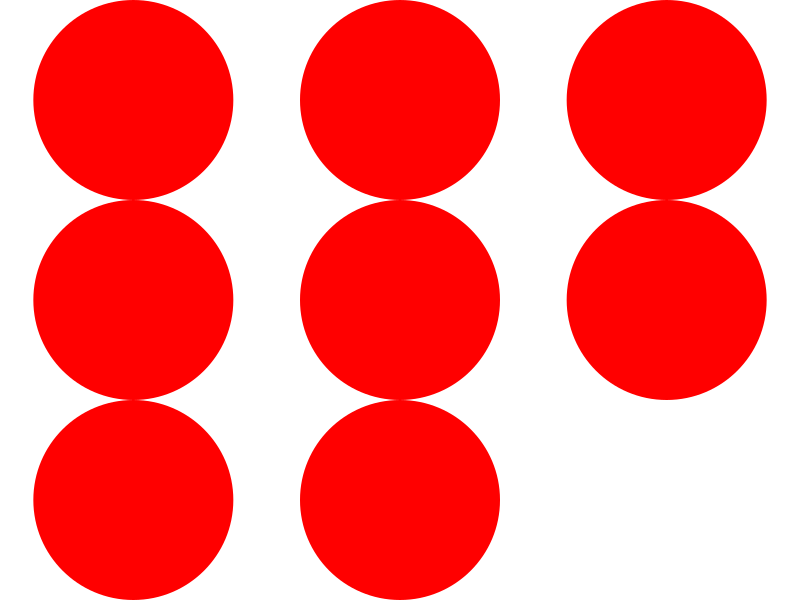
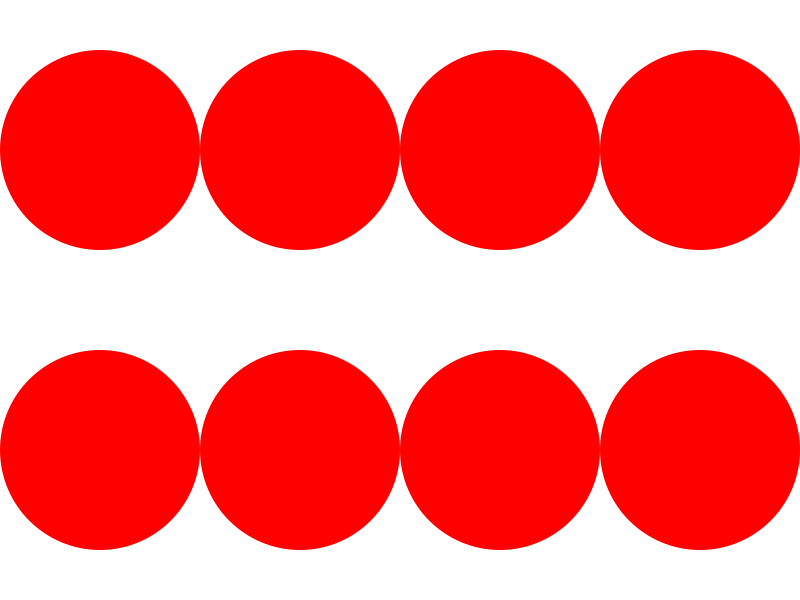
Better grid algorithm.

diff --git a/src/Grid.ts b/src/Grid.ts
@@ -6,24 +6,73 @@ export function Grid(...objects: DisplayObject[]): GridComponent {
 }
 
 export class GridComponent extends Partitioner {
+  _centerLastRow: boolean = false;
+
   constructor(...children: DisplayObject[]) {
     super(...children);
+  }
+
+  centerLastRow(): GridComponent {
+    this._centerLastRow = true;
+    return this;
+  }
+
+  _rowsCols(n: number): number {
+    for (let i = Math.ceil(Math.sqrt(n)); i >= 1; i--) {
+      if (n % i === 0) {
+        return i;
+      }
+    }
+    return 1;
   }
 
   *partition(objects: DisplayObject[], space: Rectangle): Generator<Rectangle> {
     let containers = objects as Container[];
 
+    let factors = [];
+    for (let i = 1; i <= Math.sqrt(containers.length); i++) {
+      if (containers.length % i === 0) {
+        factors.push(i, containers.length / i);
+      }
+    }
+    factors = [...new Set(factors)].sort((a, b) => a - b);
+
     let aspectRatio = space.width / space.height;
-    let rows = Math.ceil(Math.sqrt(containers.length / aspectRatio));
-    let columns = Math.ceil(containers.length / rows);
+    let bestDiff = Infinity;
+    let rows, columns;
+    for (let factor of factors) {
+      let possibleRows = factor;
+      let possibleCols = containers.length / possibleRows;
+      let diff = Math.abs(aspectRatio - possibleCols / possibleRows);
+      if (diff < bestDiff) {
+        bestDiff = diff;
+        rows = possibleRows;
+        columns = possibleCols;
+      }
+    }
+
+    if (!rows || !columns) {
+      rows = Math.ceil(Math.sqrt(containers.length / aspectRatio));
+      columns = Math.ceil(containers.length / rows);
+    }
+
     let width = space.width / columns;
     let height = space.height / rows;
 
     let row = 0;
     let column = 0;
     for (let _ of containers) {
+      let shift = 0;
+      if (
+        this._centerLastRow &&
+        row === rows - 1 &&
+        columns * rows > containers.length
+      ) {
+        shift = ((columns * rows - containers.length) * width) / 2;
+      }
+
       let partition = new Rectangle(
-        space.x + column * width,
+        space.x + column * width + shift,
         space.y + row * height,
         width,
         height,

diff --git a/src/Partitioner.ts b/src/Partitioner.ts
@@ -19,15 +19,6 @@ export default abstract class Partitioner
       .reduce((a, b) => Math.min(a, b), Infinity);
   }
 
-  private _isContainer(obj: DisplayObject): obj is Container {
-    // For whatever reason, when I do `obj instanceof Container`, it returns
-    // true in my tests but false when I import this library into another
-    // project. I spent time looking into it and concluded that there seemed
-    // to be 2 instances of pixi.js classes being loaded, one from .js files
-    // and the other from .mjs files. I never got to the bottom of this.
-    return "width" in obj && "height" in obj;
-  }
-
   leaves(fn: (l: LeafComponent) => LeafComponent): this {
     let i = 0;
     for (let _ of this._group) {
@@ -36,7 +27,7 @@ export default abstract class Partitioner
         child.leaves(fn);
       } else if (child instanceof LeafComponent) {
         this._group[i] = fn(child);
-      } else if (this._isContainer(child)) {
+      } else if (child instanceof Container) {
         this._group[i] = fn(Leaf(child));
       }
       i += 1;
